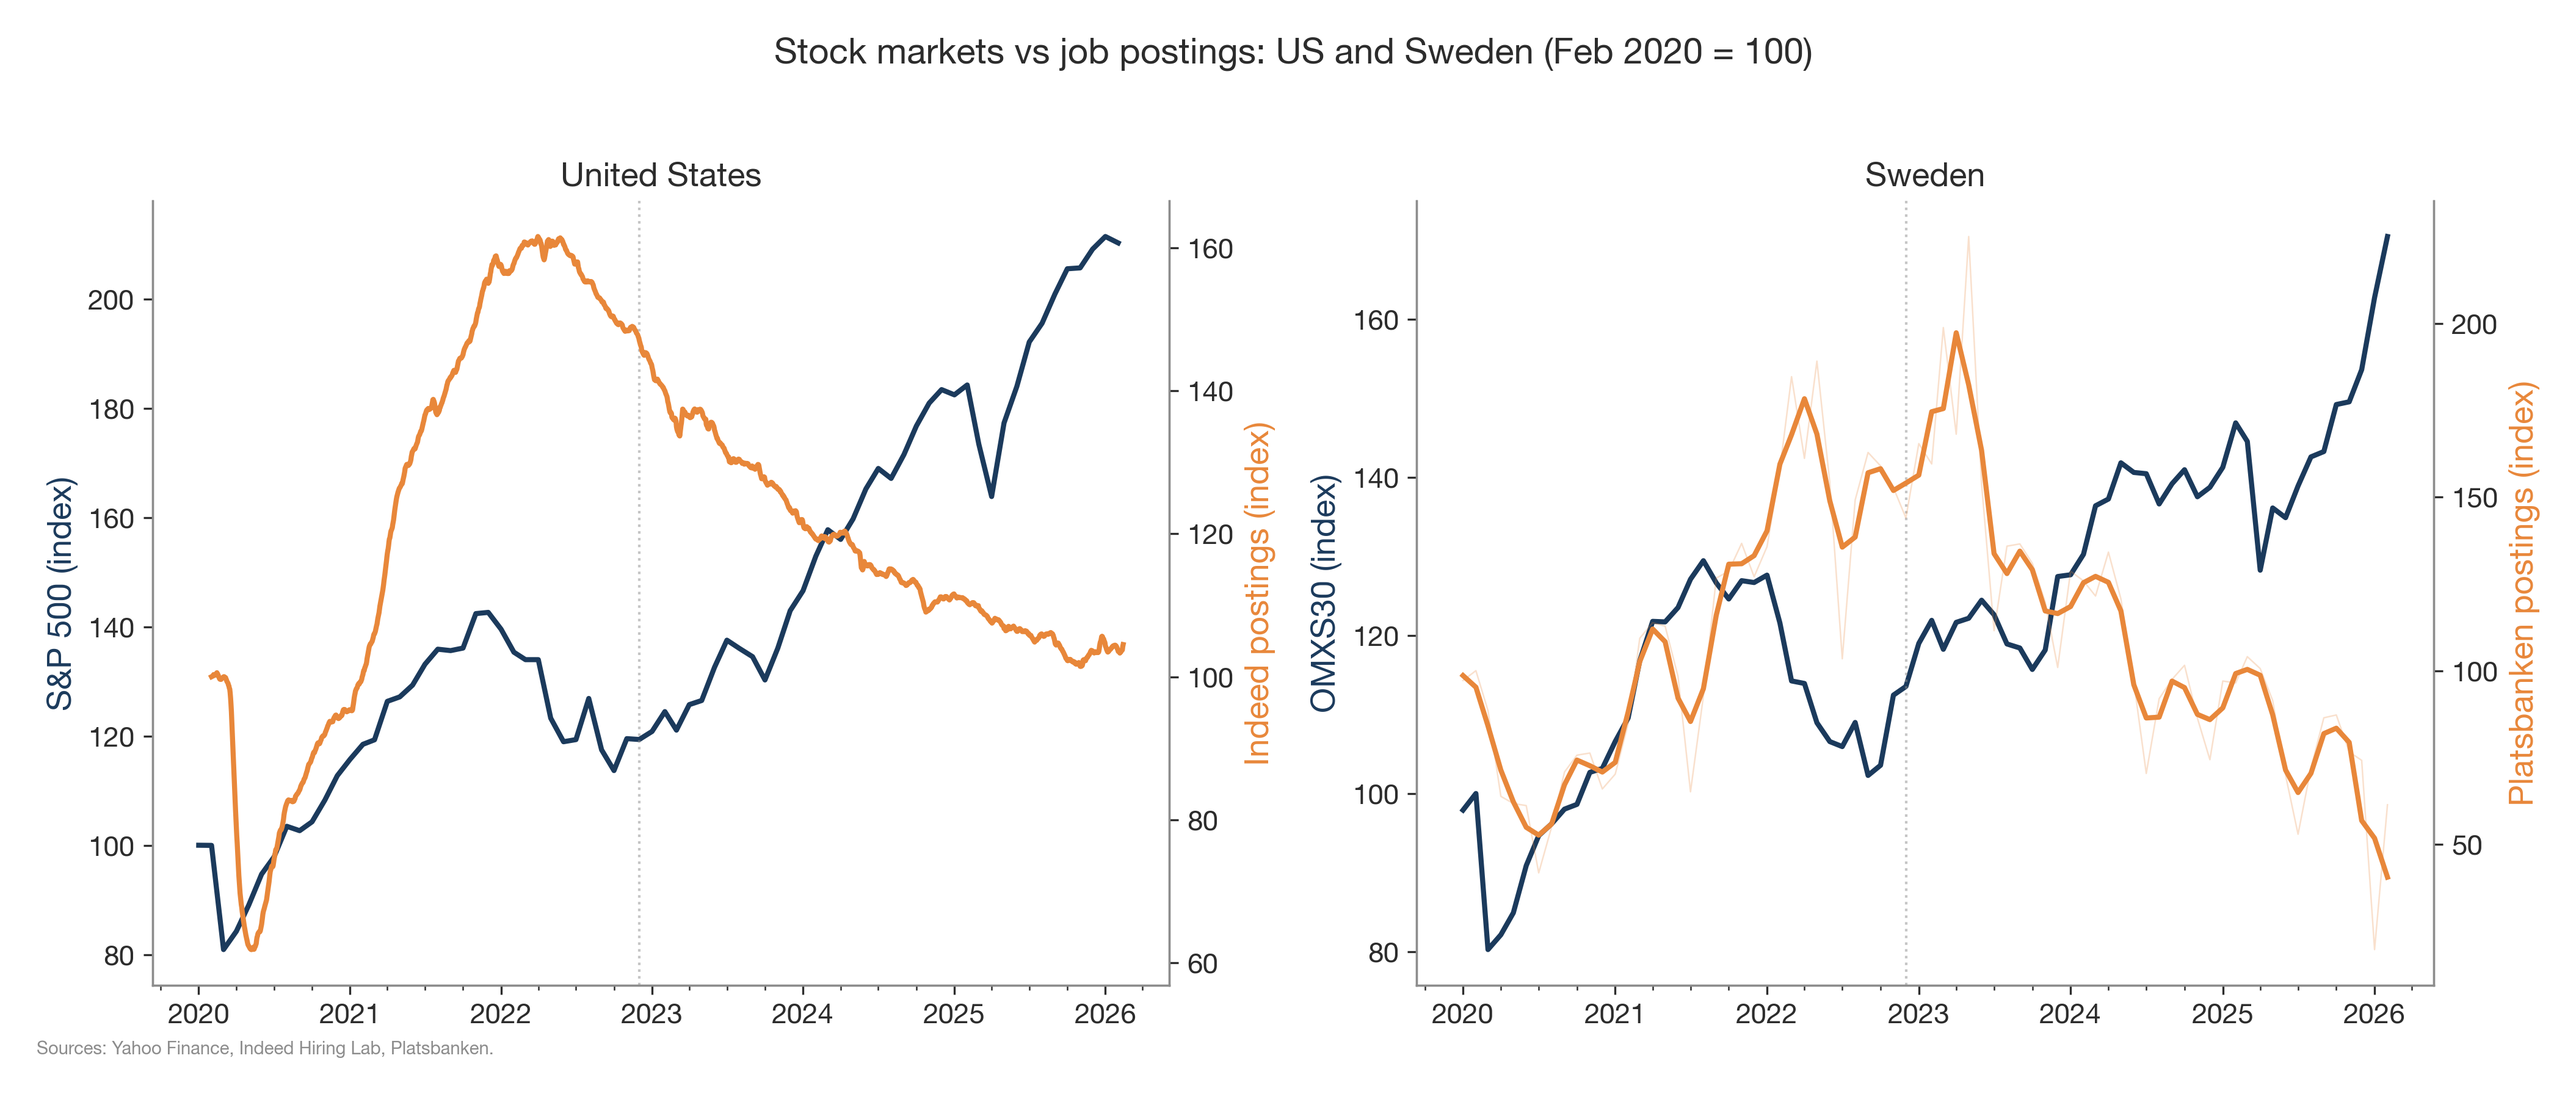
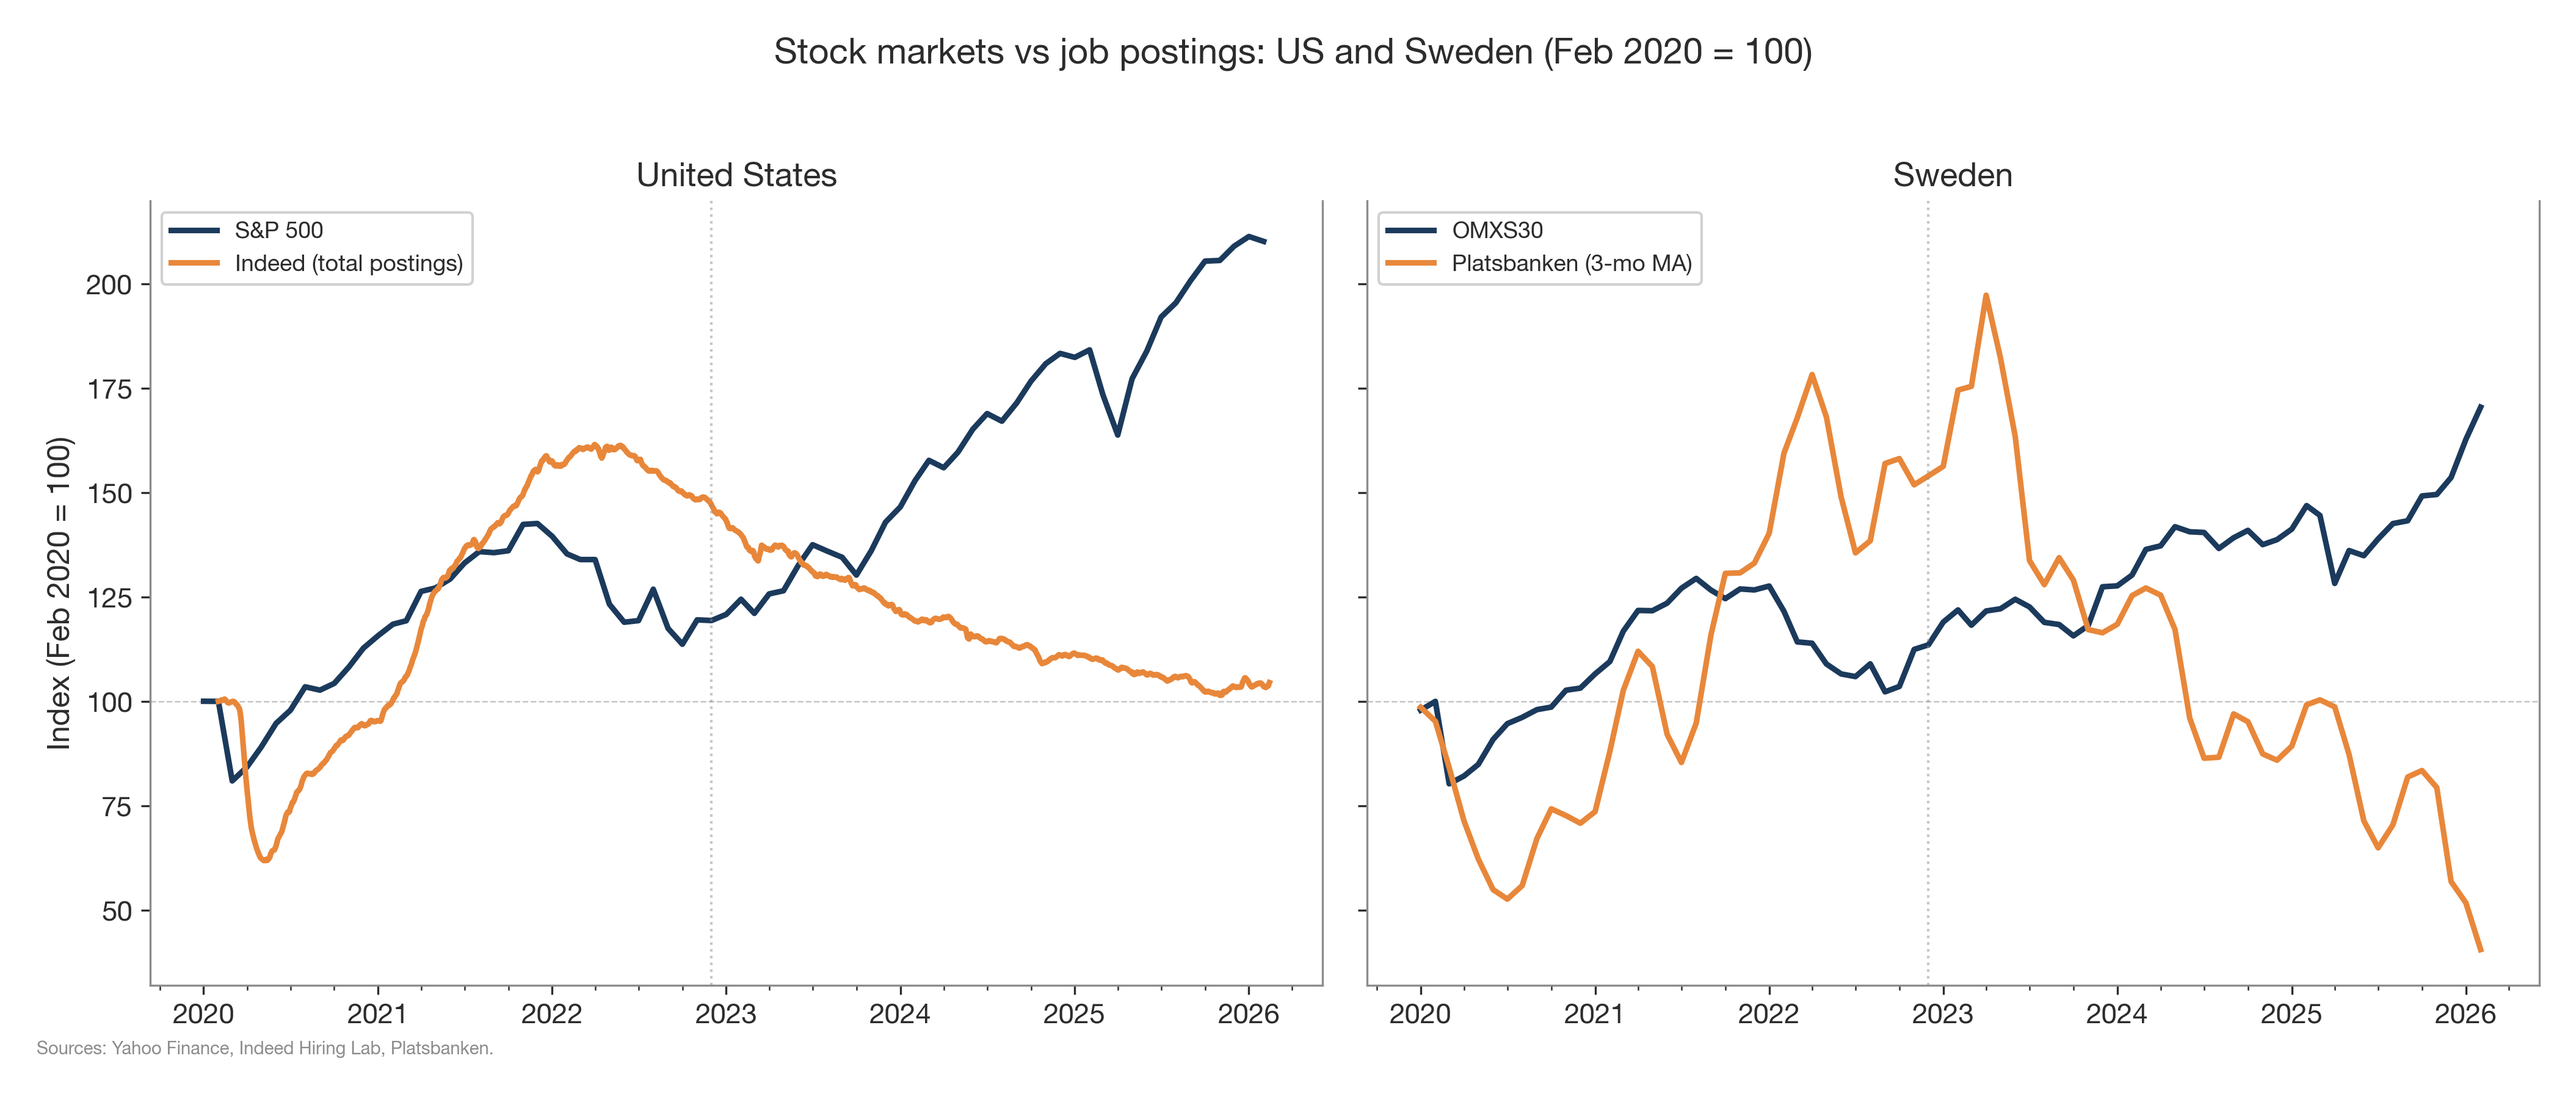
Figure A1: drop twinx, share y-axis across panels, update appendix text
Both series within each panel are indexed to Feb 2020 = 100, so they
belong on the same y-axis; the original dual-axis layout was making
cross-country comparison harder by leaving four independently
autoscaled axes for the reader to mentally reconcile.

Changes:
- Drop twinx() in fig_sweden_vs_us
- sharey=True and sharex=True so US and Sweden are visually comparable
  both within and across panels
- Single y-axis label per row ("Index (Feb 2020 = 100)")
- Remove the faint Platsbanken raw background line
- Dashed reference line at the indexing base (=100) in both panels
- Subtle ChatGPT vertical retained for treatment timing
- Consistent line weights and legend placement

The shared scale now reveals that Sweden's posting decline is deeper
and earlier than the US one — visually obvious in the new figure but
hidden by the old dual-axis layout. This is consistent with the
sharper Riksbank tightening cycle and supports the paper's monetary
framing.

Appendix passage on Figure A1 updated accordingly: replaces the
"similar qualitative pattern... since mid-2022" framing (which was
slightly inaccurate on timing and silent on magnitudes) with a
sentence noting the deeper and earlier Swedish decline and linking
it to the Riksbank tightening cycle.

diff --git a/src/06_figures_tables.py b/src/06_figures_tables.py
@@ -330,37 +330,44 @@ def fig_sweden_vs_us():
         print(f"  WARNING: US data not available: {e}")
         return
 
-    fig, (ax_us, ax_se) = plt.subplots(1, 2, figsize=(14, 5.5), sharey=False)
+    # Single shared y-axis per panel + sharey across panels.
+    # Both series within a panel are indexed to Feb 2020 = 100, so they
+    # belong on the same axis. Sharing across panels makes US and Sweden
+    # directly visually comparable both within and between countries.
+    fig, (ax_us, ax_se) = plt.subplots(1, 2, figsize=(14, 5.5),
+                                        sharey=True, sharex=True)
 
     # US panel
-    ax_us.plot(sp500.index, sp500["sp500_idx"], color=DARK_BLUE, linewidth=2, label="S&P 500")
-    ax_us_r = ax_us.twinx()
-    # Indeed column name may vary
     indeed_col = [c for c in indeed.columns if "US" in c.upper() or "indeed" in c.lower()]
+    ax_us.plot(sp500.index, sp500["sp500_idx"],
+               color=DARK_BLUE, linewidth=2.2, label="S&P 500")
     if indeed_col:
-        ax_us_r.plot(indeed.index, indeed[indeed_col[0]], color=ORANGE, linewidth=2, label="Indeed US")
+        ax_us.plot(indeed.index, indeed[indeed_col[0]],
+                   color=ORANGE, linewidth=2.2, label="Indeed (total postings)")
     ax_us.set_title("United States", fontsize=13, fontweight="bold")
-    ax_us.set_ylabel("S&P 500 (index)", color=DARK_BLUE)
-    ax_us_r.set_ylabel("Indeed postings (index)", color=ORANGE)
+    ax_us.set_ylabel("Index (Feb 2020 = 100)", fontsize=12)
+    ax_us.legend(loc="upper left", fontsize=9, framealpha=0.9)
 
-    # Sweden panel — smooth postings with 3-month MA for comparability with US
-    ax_se.plot(omxs.index, omxs["omxs30_idx"], color=DARK_BLUE, linewidth=2, label="OMXS30")
-    ax_se_r = ax_se.twinx()
+    # Sweden panel — 3-month MA only (no faint raw background)
     postings_sorted = postings.sort_index()
-    # Raw as faint background
-    ax_se_r.plot(postings_sorted.index, postings_sorted["ads_idx"],
-                 color=ORANGE, linewidth=0.6, alpha=0.25)
-    # 3-month MA prominent
-    postings_sorted["ads_ma3"] = postings_sorted["ads_idx"].rolling(3, center=True, min_periods=1).mean()
-    ax_se_r.plot(postings_sorted.index, postings_sorted["ads_ma3"],
-                 color=ORANGE, linewidth=2, label="Platsbanken (3-mo MA)")
+    postings_sorted["ads_ma3"] = postings_sorted["ads_idx"].rolling(
+        3, center=True, min_periods=1).mean()
+    ax_se.plot(omxs.index, omxs["omxs30_idx"],
+               color=DARK_BLUE, linewidth=2.2, label="OMXS30")
+    ax_se.plot(postings_sorted.index, postings_sorted["ads_ma3"],
+               color=ORANGE, linewidth=2.2, label="Platsbanken (3-mo MA)")
     ax_se.set_title("Sweden", fontsize=13, fontweight="bold")
-    ax_se.set_ylabel("OMXS30 (index)", color=DARK_BLUE)
-    ax_se_r.set_ylabel("Platsbanken postings (index)", color=ORANGE)
+    ax_se.legend(loc="upper left", fontsize=9, framealpha=0.9)
 
+    # Shared cosmetics on both panels
     for ax in [ax_us, ax_se]:
         format_date_axis(ax)
-        ax.axvline(pd.Timestamp(CHATGPT_LAUNCH), color=GRAY, linestyle=":", linewidth=1, alpha=0.5)
+        # Subtle treatment marker (December 2022 ChatGPT launch)
+        ax.axvline(pd.Timestamp(CHATGPT_LAUNCH),
+                   color=GRAY, linestyle=":", linewidth=1, alpha=0.5)
+        # Reference line at the indexing base (=100)
+        ax.axhline(100, color=GRAY, linewidth=0.6,
+                   linestyle="--", alpha=0.5, zorder=0)
 
     fig.suptitle(
         "Stock markets vs job postings: US and Sweden (Feb 2020 = 100)",

diff --git a/paper/appendix.tex b/paper/appendix.tex
@@ -166,7 +166,7 @@ Mean (if $>0$) & 5.97 & 6.49 & 6.25 & 6.93 & 7.68 & 9.75 \\
 \section{Sweden vs United States comparison}
 % ──────────────────────────────────────────────────────────────────────────────
 
-Figure~\ref{fig:svdus} shows side-by-side comparisons of the stock market versus job postings divergence in the United States and Sweden. The US panel uses the S\&P~500 and Indeed Hiring Lab aggregate job postings index; the Swedish panel uses OMXS30 and Platsbanken microdata. Both countries exhibit a similar qualitative pattern of rising stock markets and falling postings since mid-2022.
+Figure~\ref{fig:svdus} shows side-by-side comparisons of the stock market versus job postings divergence in the United States and Sweden. The US panel uses the S\&P~500 and Indeed Hiring Lab aggregate job postings index; the Swedish panel uses OMXS30 and Platsbanken microdata. Both countries show rising stock markets and falling postings, though the posting decline starts earlier and goes substantially deeper in Sweden, consistent with the sharper monetary tightening cycle initiated by the Riksbank in April 2022.
 
 \begin{figure}[htbp]
 \centering
